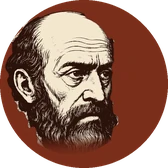
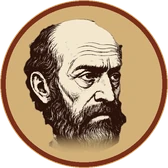
End mark: gold disc and oxblood ring, hard-trimmed edge, no fringes
Claude-Session: https://claude.ai/code/session_01WFDRwNqR48nJSGT8E39kQS

diff --git a/CHANGELOG.md b/CHANGELOG.md
@@ -7,7 +7,7 @@ All notable changes to this theme are documented here. The format follows [Keep 
 An end mark image closes every article and Journal entry. `content_version` stays at 2.77.49, since no shipped text changes.
 
 ### Added
-- `assets/images/endmark.webp`: Paul's portrait as a cameo, cut from the theme's own artwork, cleared of its cross background and printed as a two-ink linocut (dark ink and parchment) on a round oxblood seal, so that it differs from the coloured favicon. It is the Endmark default: image type, 28 px, for posts (the articles) and Journal entries.
+- `assets/images/endmark.webp`: Paul's portrait as a cameo, cut from the theme's own artwork, cleared of its cross background and printed as a two-ink linocut (dark ink and parchment) on a gold disc with an oxblood ring, so that it differs from the coloured favicon. It is the Endmark default: image type, 28 px, for posts (the articles) and Journal entries.
 - `paulus_endmark_adopt_image()` (`inc/endmark.php`) gives a site that still has the plugin's plain default symbol (`∎`) the new image, once. A symbol, image or post type list the owner chose is left alone, and later changes on the Endmark screen stick.
 - Endmark 4.4.0 was uploaded again and is the version already built in; nothing else changed.
 
